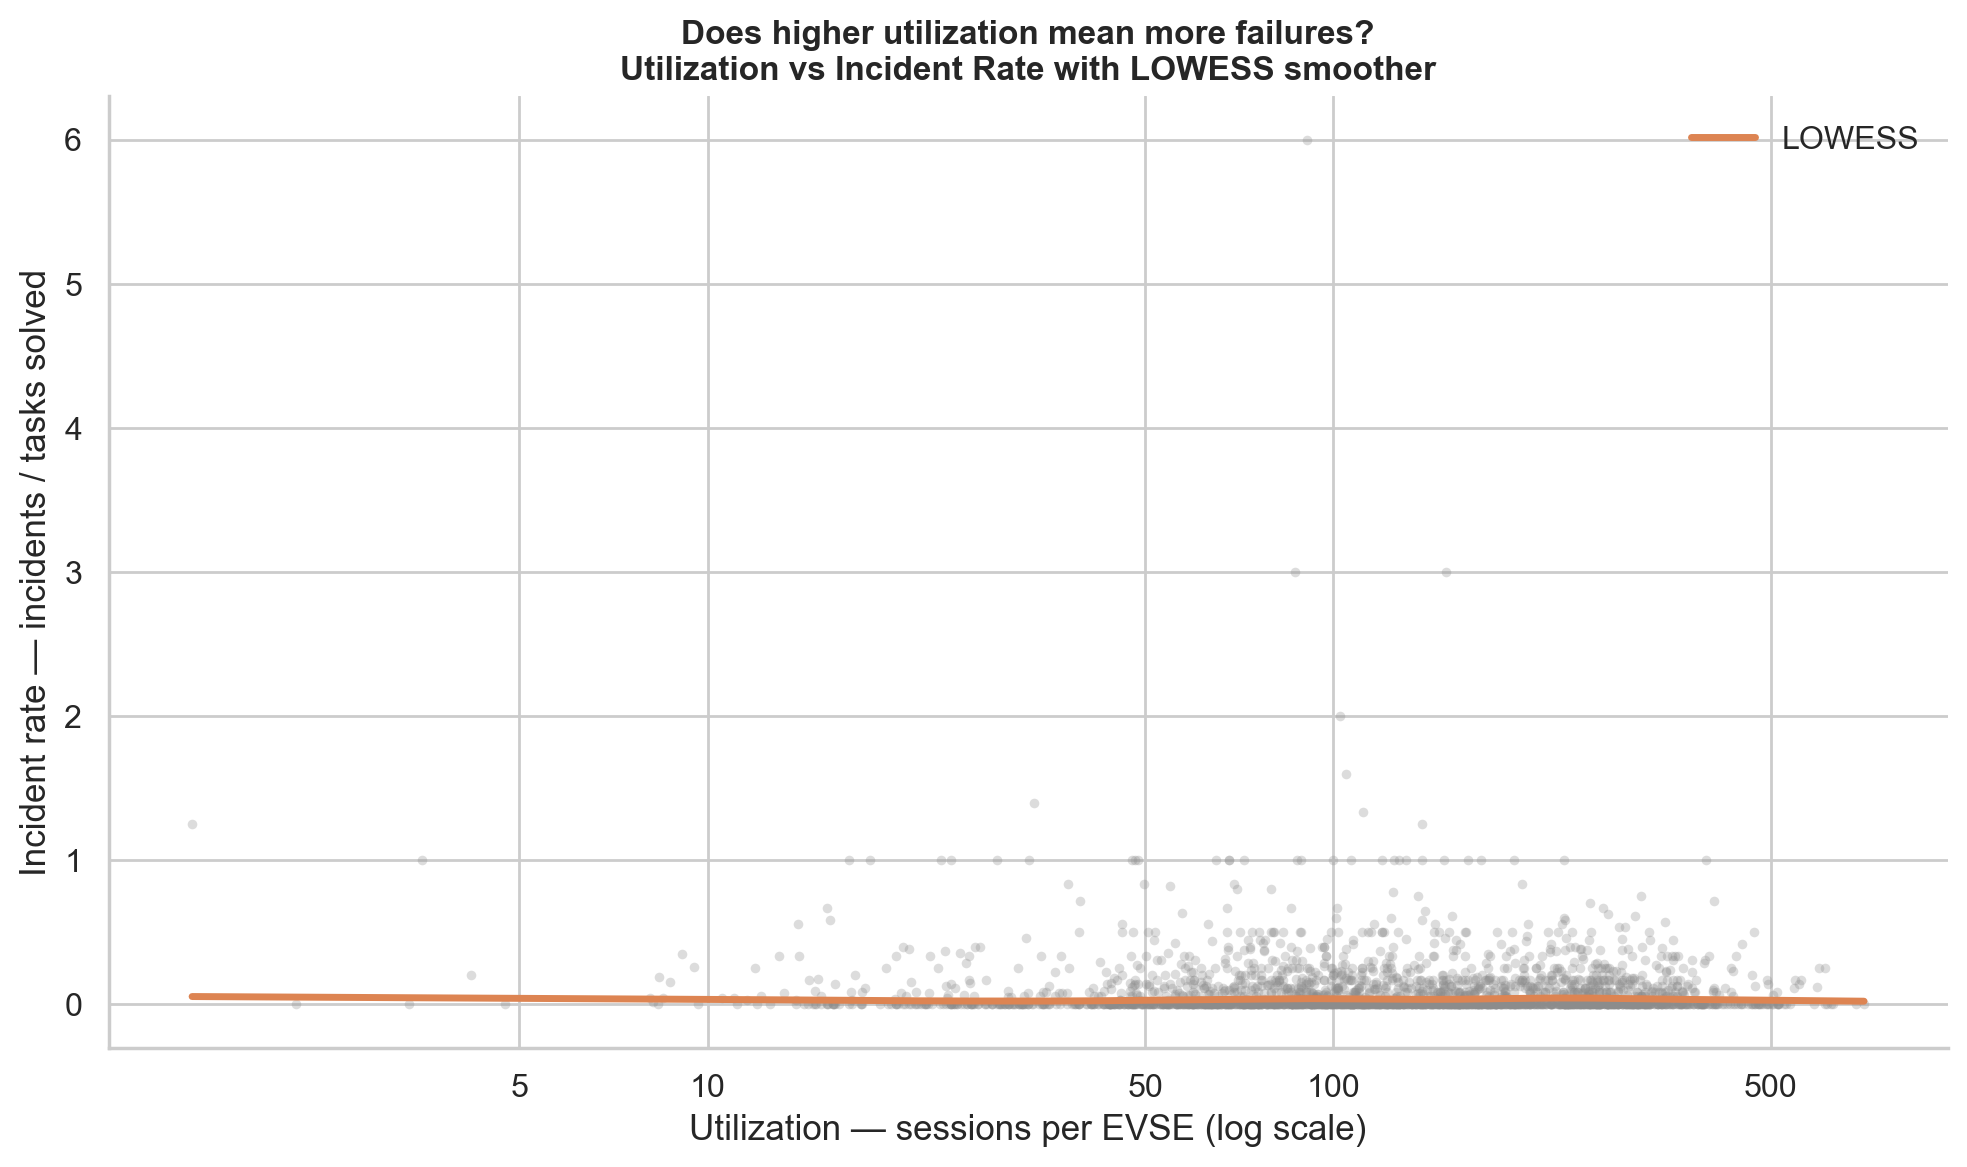
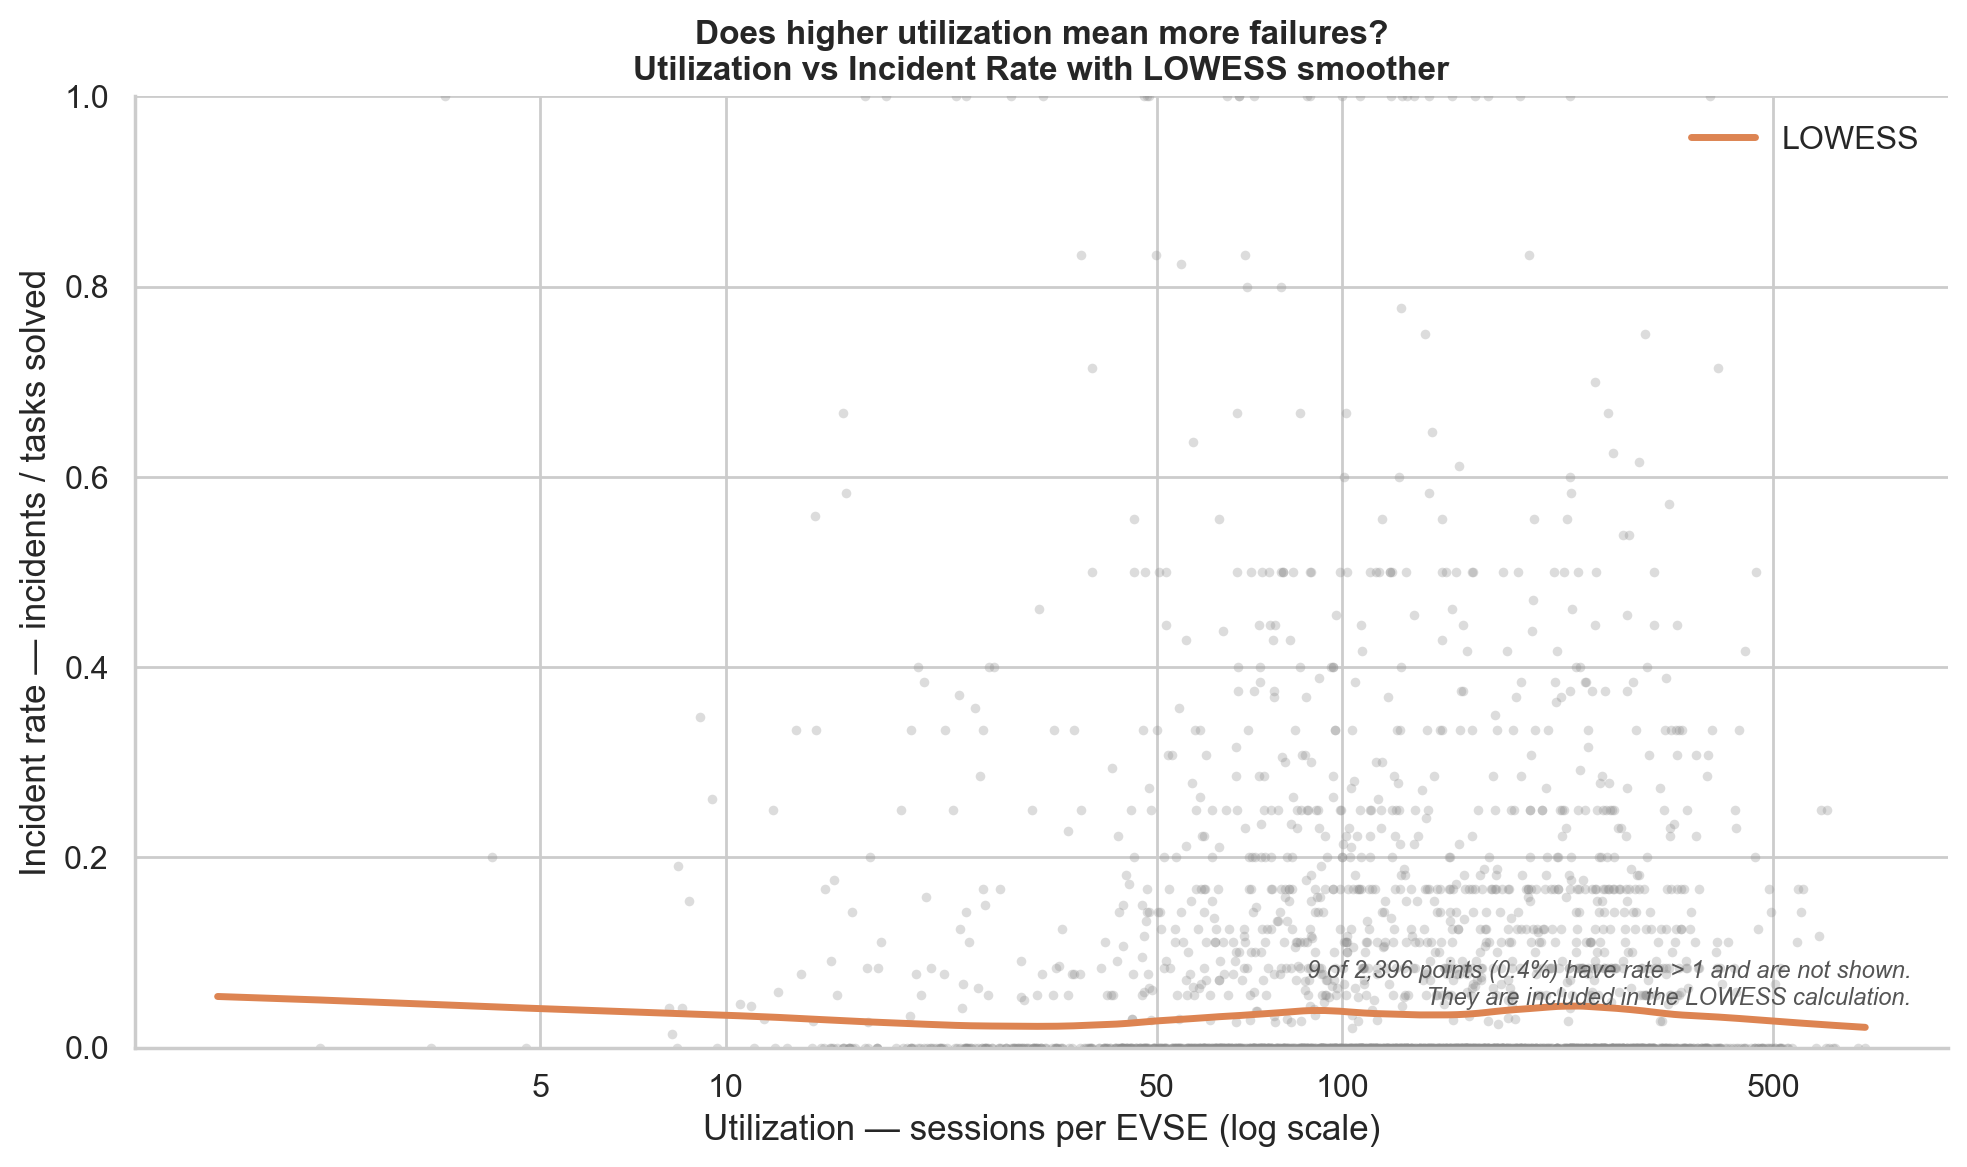
Improve utilization-vs-rate scatter readability
- plot_scatter_with_smoother: optional ylim parameter crops the viewport
  without affecting LOWESS computation
- notebooks/02_eda.ipynb: regenerate scatter with ylim=(0, 1) and annotation
  noting that 9 outliers (rate > 1) are not shown but included in the smoother
- The flat LOWESS curve is now visually clear (rate stays in [0.02, 0.05]
  across the full utilization range)

diff --git a/src/plots.py b/src/plots.py
@@ -102,6 +102,7 @@ def plot_scatter_with_smoother(
     y: pd.Series,
     ax: Optional[plt.Axes] = None,
     log_x: bool = False,
+    ylim: Optional[tuple] = None,
     title: str = "",
     xlabel: str = "",
     ylabel: str = "",
@@ -117,6 +118,10 @@ def plot_scatter_with_smoother(
     the x-axis is relabelled in original units — use this for utilization, which
     spans nearly three orders of magnitude.
 
+    When `ylim` is set, the visible y-range is cropped to that window *after*
+    the LOWESS is computed on all data. This prevents a handful of outliers from
+    compressing the main data mass without biasing the smoother.
+
     Parameters
     ----------
     x, y : pd.Series
@@ -125,6 +130,9 @@ def plot_scatter_with_smoother(
         Target axes. A new figure is created if not supplied.
     log_x : bool
         If True, plot x on a log10 scale with original-unit tick labels.
+    ylim : tuple (ymin, ymax), optional
+        Crop the visible y-axis to this range. LOWESS is computed on all data
+        regardless of this setting.
     title : str
         Axes title.
     xlabel, ylabel : str
@@ -145,6 +153,7 @@ def plot_scatter_with_smoother(
         xv_plot = np.log10(np.clip(xv, 1e-9, None))
         ax.scatter(xv_plot, yv, alpha=0.3, color=_PALETTE["secondary"],
                    s=12, linewidths=0)
+        # LOWESS computed on all data before any ylim crop.
         smoothed = _sm_lowess(yv, xv_plot, frac=0.3, return_sorted=True)
         ax.plot(smoothed[:, 0], smoothed[:, 1],
                 color=_PALETTE["accent"], linewidth=2.5, label="LOWESS")
@@ -159,9 +168,13 @@ def plot_scatter_with_smoother(
     else:
         ax.scatter(xv, yv, alpha=0.3, color=_PALETTE["secondary"],
                    s=12, linewidths=0)
+        # LOWESS computed on all data before any ylim crop.
         smoothed = _sm_lowess(yv, xv, frac=0.3, return_sorted=True)
         ax.plot(smoothed[:, 0], smoothed[:, 1],
                 color=_PALETTE["accent"], linewidth=2.5, label="LOWESS")
+
+    if ylim is not None:
+        ax.set_ylim(ylim)
 
     ax.set_title(title, fontsize=12, fontweight="bold")
     ax.set_xlabel(xlabel or (x.name or ""))
